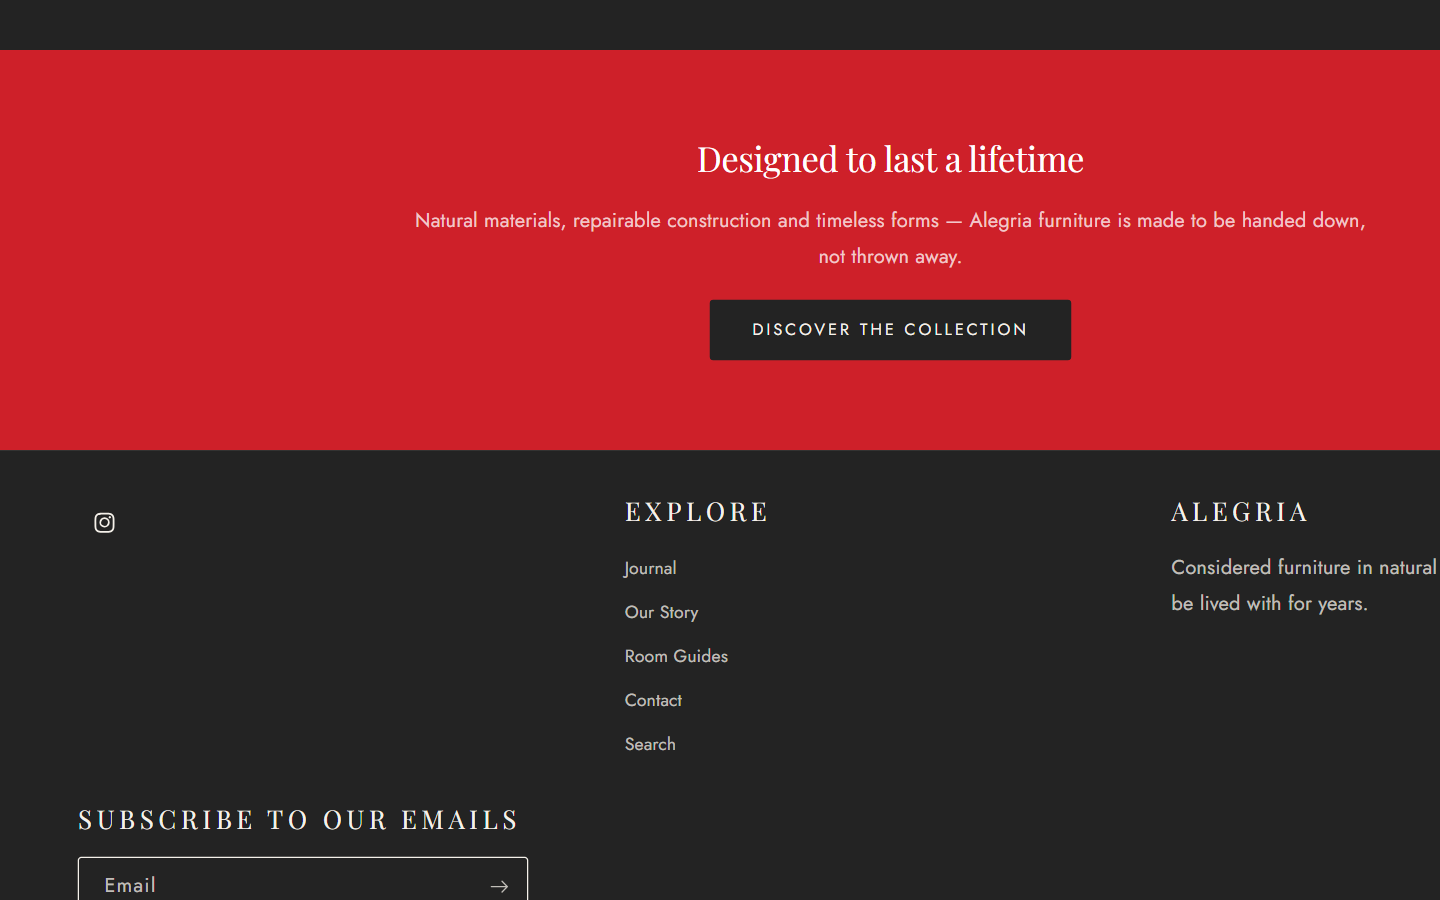
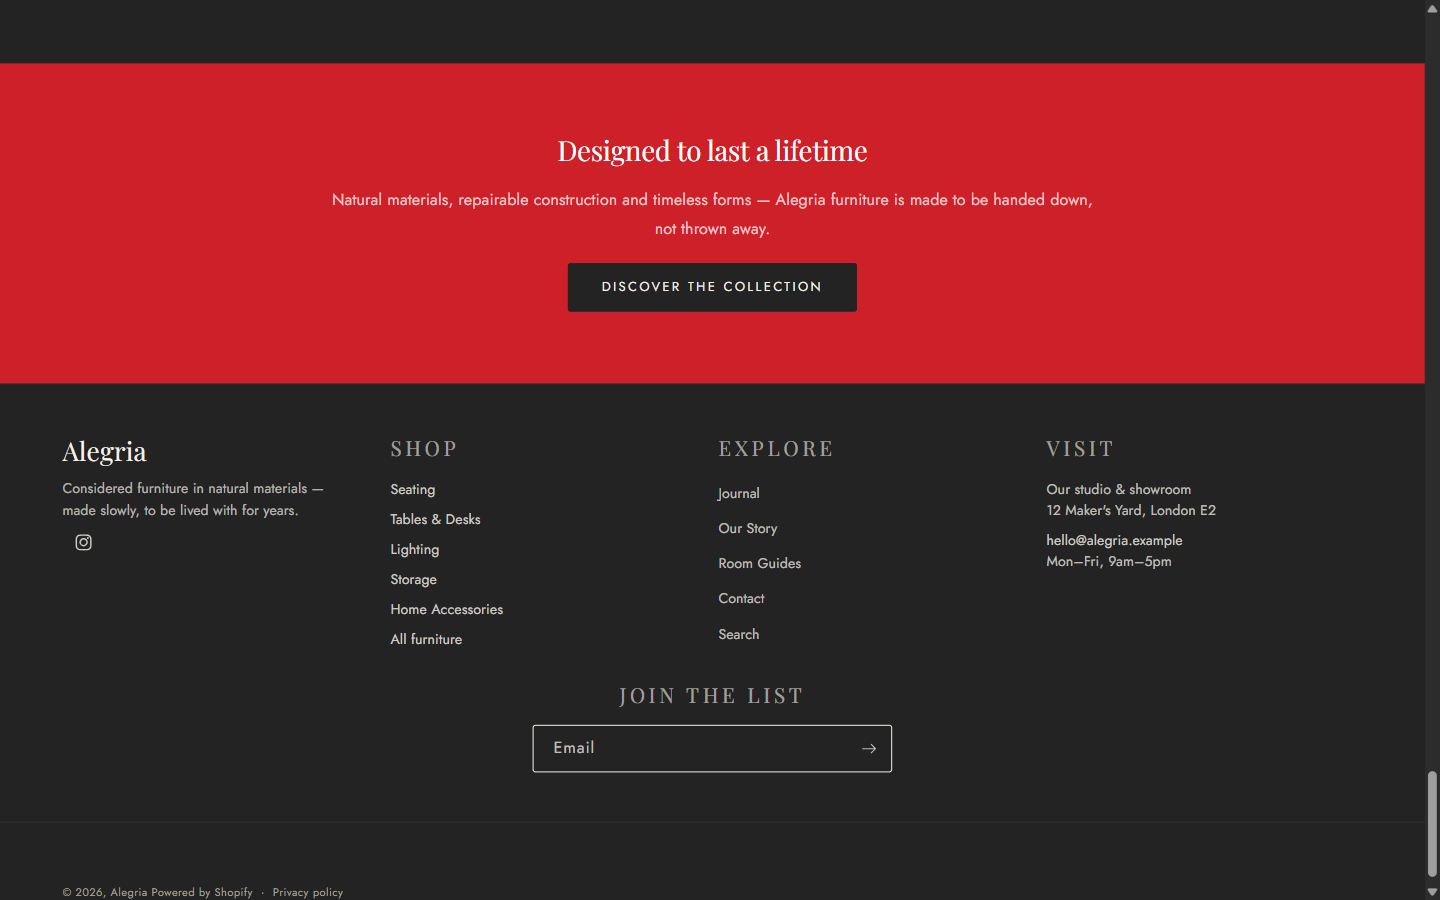
feat: rebuild footer (wordmark, shop/explore/visit columns); article 'More from the Journal' + typography; drop homepage journal link

diff --git a/theme/assets/alegria.css b/theme/assets/alegria.css
@@ -280,12 +280,115 @@ h5,
   font-size: 1.3rem;
   letter-spacing: var(--alegria-tracking-wide);
   text-transform: uppercase;
+  color: rgba(245, 241, 234, 0.6);
+}
+
+/* Brand column — show the wordmark, not just a lone social icon */
+.footer-block__brand-info .footer-block__heading {
+  font-family: var(--font-heading-family);
+  font-size: 2.6rem;
+  letter-spacing: 0.01em;
+  text-transform: none;
+  color: var(--alegria-ivory);
+  margin-bottom: 1.2rem;
+}
+
+.footer-block__brand-info .rte:not(.footer-block__heading) {
+  font-size: 1.4rem;
+  line-height: 1.6;
+  color: rgba(245, 241, 234, 0.7);
+  max-width: 32ch;
+}
+
+/* Footer links — no underline; gold on hover */
+.footer-block__details-content a,
+.footer .list-menu__item--link {
+  text-decoration: none;
+  color: rgba(245, 241, 234, 0.82);
+  transition: color 0.2s ease;
+}
+
+.footer-block__details-content a:hover,
+.footer .list-menu__item--link:hover {
+  color: var(--alegria-gold);
+  text-decoration: none;
+}
+
+.footer-block__details-content .list-unstyled {
+  display: grid;
+  gap: 0.9rem;
+}
+
+.footer-block__details-content.rte p {
+  margin: 0 0 0.9rem;
+  font-size: 1.4rem;
+  line-height: 1.5;
+}
+
+.footer-block__details-content.rte p:last-child {
+  margin-bottom: 0;
+}
+
+.footer__list-social .list-social__link {
+  color: rgba(245, 241, 234, 0.82);
+}
+
+.footer__list-social .list-social__link:hover {
+  color: var(--alegria-gold);
 }
 
 .footer__copyright {
   font-size: 1.2rem;
   letter-spacing: 0.04em;
   color: var(--alegria-muted);
+}
+
+/* --------------------------------------------------------------------------
+   Journal / article pages
+   -------------------------------------------------------------------------- */
+
+.article-template__title {
+  font-size: clamp(3rem, 4.6vw, 5rem);
+  line-height: 1.08;
+  margin-bottom: 1.4rem;
+}
+
+.article-template__hero-container {
+  margin-bottom: clamp(3rem, 5vw, 5rem);
+}
+
+.article-template__content {
+  font-size: 1.7rem;
+  line-height: 1.8;
+  color: rgba(245, 241, 234, 0.86);
+}
+
+.article-template__content h2 {
+  font-size: clamp(2.2rem, 3vw, 3rem);
+  margin-top: 3.6rem;
+}
+
+.article-template__content h3 {
+  font-size: clamp(1.9rem, 2.4vw, 2.4rem);
+  margin-top: 3rem;
+}
+
+.article-template__content a {
+  color: var(--alegria-gold);
+}
+
+.article-template__content blockquote {
+  border-left: 2px solid var(--alegria-gold);
+  padding-left: 2rem;
+  margin: 2.4rem 0;
+  font-family: var(--font-heading-family);
+  font-size: 2rem;
+  color: var(--alegria-ivory);
+}
+
+.article-template__link {
+  color: var(--alegria-gold);
+  text-decoration: none;
 }
 
 /* --------------------------------------------------------------------------

diff --git a/PROJECT.md b/PROJECT.md
@@ -139,3 +139,11 @@ Crimson `#CE2029`, Charcoal `#232323`, Metallic Gold `#D4AF37` on an ivory base 
   - **Platform caveat:** on **development stores Shopify always serves its own default password page** to visitors; the themed page is only shown on a paid plan (or in the theme editor). Kept as correct, portfolio-worthy theme code and documented.
 - **Mobile verified:** homepage and product page checked at **390px** — `scrollWidth == clientWidth` (no horizontal overflow); hero, grids and stacked sections all render cleanly.
 - **Search & collection filtering** confirmed present (Availability + Price facets + sort). Adding metafield / Product-type / Vendor filters requires the **Search & Discovery** app (manual step in the admin).
+
+## Polish pass (round 7)
+
+- **Homepage journal:** removed the "Read the journal" link so the section ends cleanly on the three cards.
+- **Footer rebuilt:** added a proper brand wordmark (Playfair), a **Shop** column (the five collections), an **Explore** column (footer menu) and a **Visit** column (studio address, email, opening hours). Removed the stray link underlines and the duplicated social icons; headings/links are now on-brand.
+  - Fixed a CSS bug: the brand-description rule (`.footer-block__brand-info .rte`) also matched the wordmark (which carries `rte` **and** `footer-block__heading`), overriding its size and colour. Scoped it with `:not(.footer-block__heading)`.
+- **Article pages:** added a **"More from the Journal"** section (`sections/alegria-article-more.liquid`) showing related articles, plus on-brand article typography (headings, links, blockquotes, hero spacing).
+  - The article **body copy** is still short (a few lines each); expanding it is a content task that needs admin access.

diff --git a/README.md b/README.md
@@ -27,6 +27,7 @@ This is a fictional brand — there are **no real products, customers or payment
 - **Values section** (`sections/alegria-values.liquid`) — brand promises with line icons.
 - **Testimonials section** (`sections/alegria-testimonials.liquid`) — starred customer quotes.
 - **Journal section** (`sections/alegria-journal.liquid`) — the latest posts pulled from the Journal blog.
+- **Article pages** — on-brand typography plus a **"More from the Journal"** related-articles section.
 - **Polished details:** a branded footer (Explore menu + brand statement), an on-brand 404 page, and a smooth card cross-fade on hover (lifestyle image, 1s).
 - **Brand design system** — a charcoal-led palette (charcoal ≈60% / crimson ≈30% / gold ≈10%): Charcoal `#232323`, Crimson `#CE2029`, Metallic Gold `#D4AF37`; Playfair Display headings + Jost body.
 - **AI-generated imagery** (Gemini) uploaded to Shopify Files.
